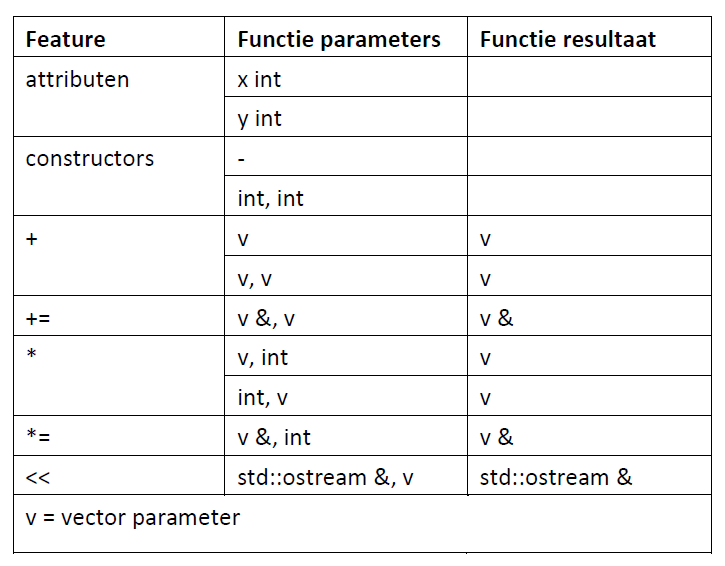
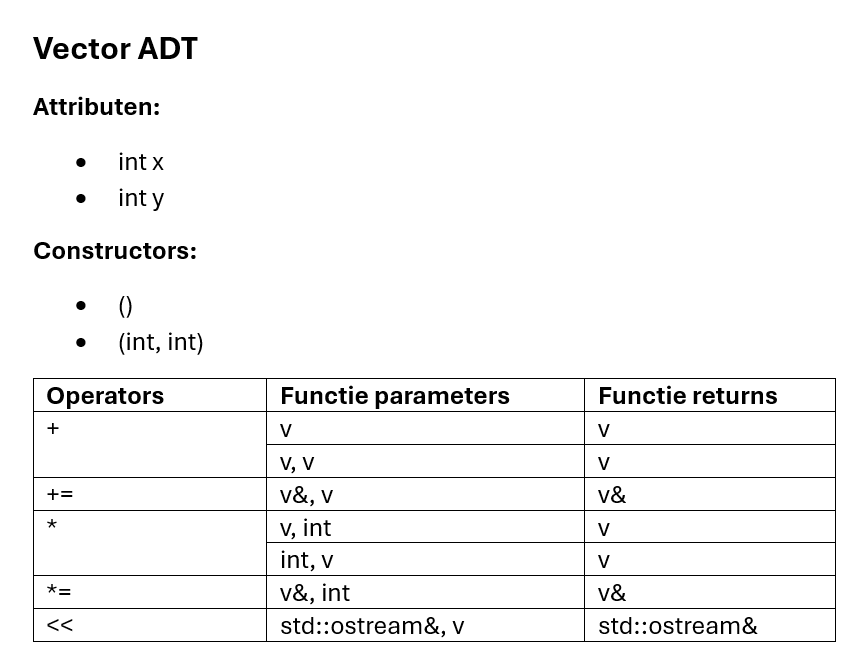
Solution for issue https://github.com/HU-TI-DEV/TI-S2/issues/125, new table image and clarification in exercise

diff --git a/software/c++/oop-concepten/ADTs/opdr_adt_vector.md b/software/c++/oop-concepten/ADTs/opdr_adt_vector.md
@@ -11,11 +11,15 @@
 #### Opdracht 2.4A Klasse en operatoren
 - Schrijf een *vector klasse* (.hpp en .cpp file) met de functionaliteit die aangegeven is in de onderstaande tabel. Je mag daarvoor code uit de md-files en de voorbeelden kopiëren. 
 - Geef aan waar je je code hebt gevonden.
+- De eerste parameter in een operator als onderdeel van een class is impliciet. Zie: [Belangrijkste operatoren](https://github.com/HU-TI-DEV/TI-S2/blob/main/software/c%2B%2B/oop-concepten/operatoren/meer-operatoren.md#tabel-belangrijkste-operatoren)
 
-Let op: 'jouw' vector-klasse is een heel andere vector-klasse dan de `std::vector` klasse. De `std::vector` is vergelijkbaar met een array of lijst en bedoeld voor opslag. De *in deze opdracht* gevraagde vector-klasse is vergelijkbaar met een coördinaat. Helaas heten ze allebei vector. Zie ook: [Vector, wikipedia](https://en.wikipedia.org/wiki/Vector)
+> [!WARNING]
+> Let op: 'jouw' vector-klasse is een heel andere vector-klasse dan de `std::vector` klasse. De `std::vector` is vergelijkbaar met een array of lijst en bedoeld voor opslag. De *in deze opdracht* gevraagde vector-klasse is vergelijkbaar met een coördinaat. Helaas heten ze allebei vector. Zie ook: [Vector, wikipedia](https://en.wikipedia.org/wiki/Vector)
+
+NB: `v` is in deze tabel gelijk aan een instance van `vector`
 
 ![alt text](vector_functionaliteiten.png)
-*Tabel: Functionaliteiten voor een vector of coördinatenpaar*
+*Figuur: Functionaliteiten voor een vector of coördinatenpaar*
 
 #### Opdracht 2.4B - Doxygen (deze opdracht volgt nog)
 
